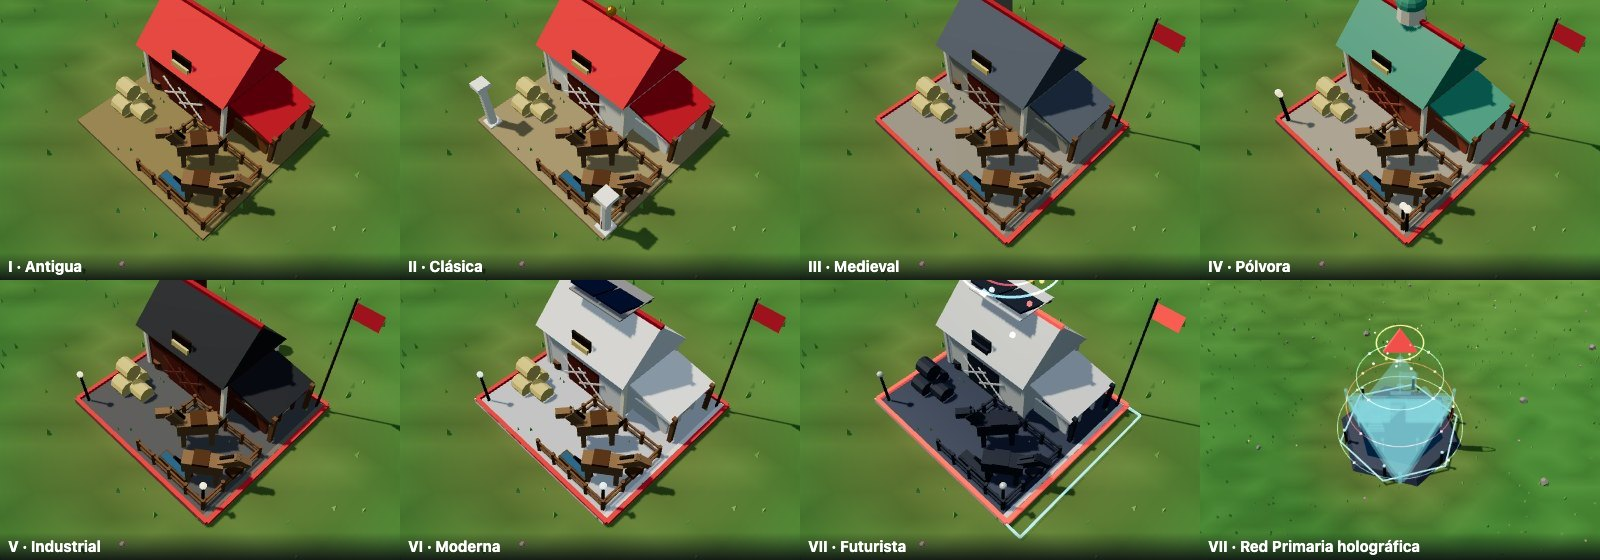
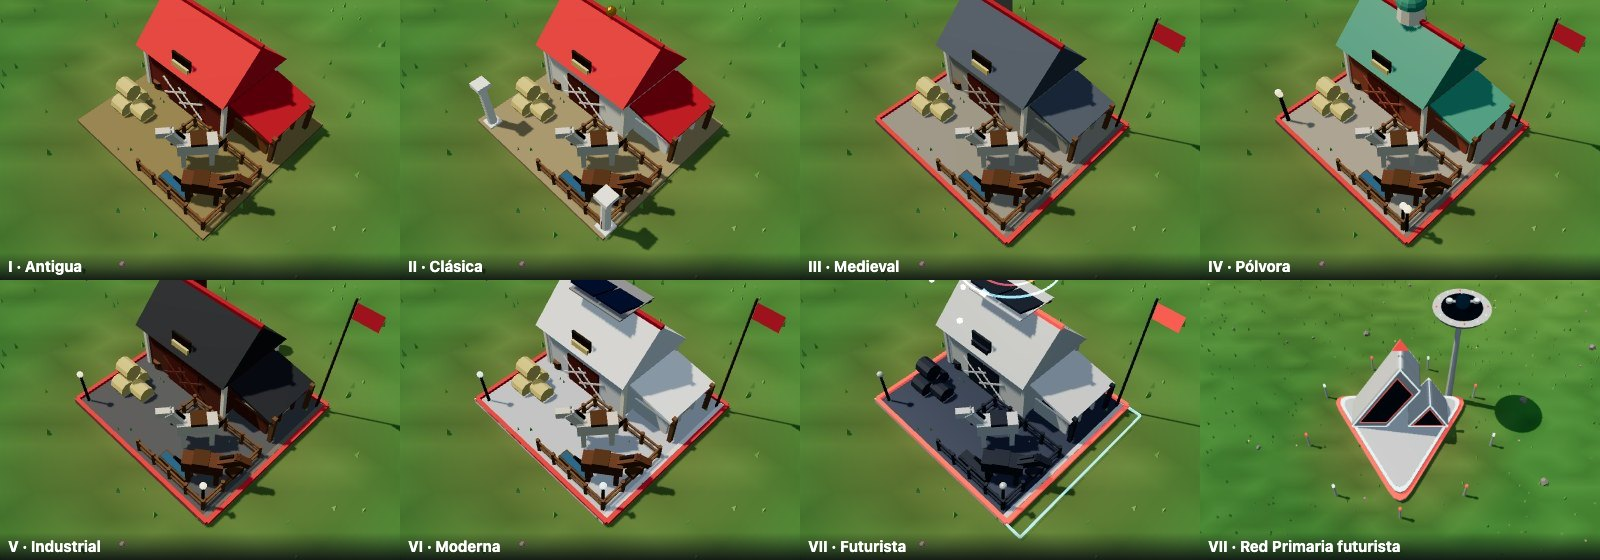
Gran Bazar y Red Primaria estilo Oblivion

diff --git a/README.md b/README.md
@@ -92,7 +92,7 @@ Como en AoE, **cada era cambia el aspecto de los edificios** y desbloquea unidad
 
 Como en AoE, cada era cambia el aspecto de los edificios. Los techos y los muros cambian de material y aparece un elemento icónico de la época. Desde la era III, el color del equipo pasa de los techos a un borde alrededor del edificio y a un estandarte. Al subir de era, el juego anuncia lo que se desbloqueó.
 
-<img src="docs/img/eras.jpg" width="820" alt="El mismo establo en las siete eras y la Red Primaria holográfica">
+<img src="docs/img/eras.jpg" width="820" alt="El mismo establo en las siete eras y la Red Primaria futurista">
 
 | Era | Muros | Techos | Elemento icónico |
 |---|---|---|---|
@@ -102,11 +102,11 @@ Como en AoE, cada era cambia el aspecto de los edificios. Los techos y los muros
 | IV · Pólvora | ladrillo rojo | cobre verde | cúpula de cobre y faroles |
 | V · Industrial | ladrillo oscuro | zinc | chimenea industrial con humo |
 | VI · Moderna | concreto claro | blanco | paneles solares y antena con luz roja |
-| VII · Futurista | cerámica blanca y grafito sobre losas de pizarra | vidrio oscuro | aristas de neón, franja de luz al ras del suelo y un anillo holográfico que gira encima; la Red Primaria es un **holograma** |
+| VII · Futurista | cerámica blanca y grafito sobre losas de pizarra | vidrio oscuro | aristas de neón, franja de luz al ras del suelo y un anillo holográfico que gira encima; la Red Primaria es una estructura blanca estilo *Oblivion*, más grande que las demás, con vidrio negro y LED en las aristas del logo |
 
 ### VII · Edad Futurista
 
-La era más futurista posible: la **Red Primaria se vuelve un holograma** (la silueta de Avalanche hecha de luz, sobre una plataforma con anillos que giran y el triángulo rojo flotando encima). Todos los edificios se rehacen en cerámica blanca, grafito y vidrio oscuro, con aristas de neón y un anillo holográfico. Llegan los **robots de combate**, los **helicópteros de ataque**, que vuelan sobre agua, bosques y murallas, y los **tanques de plasma**, que levitan. Todos disparan **láser**: cian los tuyos y magenta los del rival.
+La era más futurista posible: la **Red Primaria** se vuelve una estructura blanca estilo *Oblivion*, más grande que las demás, con paneles de vidrio negro, luces LED en todas las aristas del logo, postes de luz y una torre esbelta con helipuerto. Todos los edificios se rehacen en cerámica blanca, grafito y vidrio oscuro, con aristas de neón y un anillo holográfico. Llegan los **robots de combate**, los **helicópteros de ataque**, que vuelan sobre agua, bosques y murallas, y los **tanques de plasma**, que levitan. Todos disparan **láser**: cian los tuyos y magenta los del rival.
 
 <p align="center"><img src="docs/img/era7-base.jpg" width="49%"> <img src="docs/img/era7-batalla.jpg" width="49%"><br><sub>Una base en la Edad Futurista y una batalla de robots, tanques de plasma y helicópteros.</sub></p>
 
@@ -171,7 +171,7 @@ Las partículas se dibujan en tres mallas instanciadas (un draw call cada una) y
 | <img src="docs/img/lumbercamp-e1.jpg" width="210"> | **Aserradero Firewood**<br><sub>Aserradero</sub> | I | 100 🪵 | Punto de entrega de madera. Investiga mejoras de tala. Se reconoce por su techo de tablones y la pila de troncos. |
 | <img src="docs/img/miningcamp-e1.jpg" width="210"> | **Mina de AVAX**<br><sub>Campamento minero</sub> | I | 100 🪵 | Punto de entrega de oro y piedra. Investiga mejoras de minería. Se reconoce por el montículo de roca con túnel y la torre con polea. |
 | <img src="docs/img/farm-e1.jpg" width="210"> | **Granja de Staking**<br><sub>Granja</sub> | I | 60 🪵 | Fuente renovable de comida. Un aldeano la trabaja. Al agotarse se vuelve a sembrar sola por 60 🪵 (si no hay madera, desaparece). |
-| <img src="docs/img/market-e1.jpg" width="210"> | **Mercado DeFi**<br><sub>Mercado</sub> | I | 175 🪵 | Compra y vende recursos con tokens reales en la Age L1: cada recurso tiene su pool contra GLORY. |
+| <img src="docs/img/market-e1.jpg" width="210"> | **Mercado DeFi**<br><sub>Mercado</sub> | I | 175 🪵 | Compra y vende recursos con tokens reales en la Age L1: cada recurso tiene su pool contra GLORY. Entrena carretas comerciantes. |
 | <img src="docs/img/dock-e1.jpg" width="210"> | **Puerto Teleporter**<br><sub>Muelle</sub> | I | 150 🪵 | Se construye en la orilla, sobre el agua. Entrena los cuatro barcos y recibe el pescado. |
 | <img src="docs/img/barracks-e1.jpg" width="210"> | **Cuartel del Consenso**<br><sub>Cuartel</sub> | I | 100 🪵 · 40 🪨 | Entrena infantería: milicia, mosqueteros y fusileros. Se reconoce por su techo de pabellón, la torre de guardia y el patio de arena. |
 | <img src="docs/img/palisade-e1.jpg" width="210"> | **Empalizada de Hielo**<br><sub>Empalizada</sub> | I | 3 🪵 | Muro barato de troncos. Arrastra para trazar una línea. |
@@ -215,8 +215,15 @@ Las partículas se dibujan en tres mallas instanciadas (un draw call cada una) y
 | <img src="docs/img/hovertank-e7.jpg" width="190"> | **Tanque de Plasma Etna**<br><sub>Tanque de plasma</sub> | VII | 120 🪵 · 320 🪙 · 80 🪨 | 620 · 70 · 6.3 casillas | Levita sobre propulsores de luz. Su cañón de plasma hace 2,5× de daño a edificios. Se entrena en la Fábrica. |
 | <img src="docs/img/fishingboat-e1.jpg" width="190"> | **Pesquero Coreth**<br><sub>Bote pesquero</sub> | I | 75 🪵 | 60 · — · — | Pesca en mares, lagos y ríos y lleva la comida al muelle (carga 15). |
 | <img src="docs/img/transport-e1.jpg" width="190"> | **Transbordador ICM**<br><sub>Barco de transporte</sub> | I | 125 🪵 | 160 · — · — | Lleva hasta 5 unidades por el agua, por ejemplo de una isla a otra. |
+| <img src="docs/img/tradecart-e2.jpg" width="190"> | **Caravana DeFi**<br><sub>Carreta comerciante</sub> | II | 100 🍖 · 50 🪙 | 70 · — · — | Se entrena en el Mercado. Va y vuelve entre tu Mercado y el Gran Bazar del centro: cada llegada da oro según la distancia. No pelea. |
 | <img src="docs/img/merchant-e2.jpg" width="190"> | **Carguero Interchain**<br><sub>Barco mercante</sub> | II | 100 🪵 · 50 🪙 | 120 · — · — | Comercia entre dos muelles tuyos: cada viaje da oro según la distancia. |
 | <img src="docs/img/warship-e2.jpg" width="190"> | **Galera Avalanche**<br><sub>Galera de ataque</sub> | II | 140 🪵 · 50 🪙 | 200 · 9 · 4.8 casillas | Barco de guerra con arqueros: ataca barcos, costas y edificios. |
+
+### Gran Bazar
+
+En el centro de cada mapa hay una plaza de comercio **neutral**: no es de nadie, no se construye ni se puede destruir. Manda **carretas comerciantes** desde tu Mercado (clic derecho en el bazar, o *Comerciar*): cada viaje da oro según la distancia. Como el viaje tarda en proporción a la distancia, el oro por minuto es el mismo para los dos jugadores aunque el bazar no quede exactamente al centro. El mapa ahora termina en una cornisa de piedra clara, sin bosque decorativo afuera.
+
+<p align="center"><img src="docs/img/bazar.jpg" width="80%"><br><sub>El Gran Bazar: fuente, obelisco con el triángulo de Avalanche y puestos con los colores de los chapters.</sub></p>
 
 ### Agua y barcos
 

diff --git a/docs/JUEGO.md b/docs/JUEGO.md
@@ -84,7 +84,7 @@ Como en AoE, cada avance de era cambia el aspecto de los edificios. Al subir de 
 | IV · Pólvora | ladrillo rojo | cobre verde | cúpula de cobre con linterna y faroles |
 | V · Industrial | ladrillo oscuro | zinc | chimenea industrial de ladrillo con humo |
 | VI · Moderna | concreto claro | blanco | paneles solares sobre el techo y antena con luz roja |
-| VII · Futurista | cerámica blanca, grafito y pizarra | vidrio oscuro | aristas de neón, franja de luz y anillo holográfico; la Red Primaria es un holograma (`makeHoloTown`) |
+| VII · Futurista | cerámica blanca, grafito y pizarra | vidrio oscuro | aristas de neón, franja de luz y anillo holográfico; la Red Primaria estilo Oblivion (`makeFutureTown`) |
 
 Desde la era III, el color del equipo deja los techos y pasa a un borde alrededor del edificio y a un estandarte, como en AoE. La comparación está en `docs/img/eras.jpg` (`?photo=stable&era=N&zoom=7.5`).
 
@@ -140,7 +140,7 @@ Cuando una granja se agota, se vuelve a sembrar sola cobrando su costo, **60 de 
 - **Avance:** 2000 comida, 1600 oro y 800 piedra en la Red Primaria, desde la Edad Moderna. La IA llega a los 24 minutos.
 - **Unidades:** robot de combate (Cuartel), helicóptero de ataque y tanque de plasma (Fábrica). Disparan láser (`ranged: 'laser'`): un haz instantáneo cian (tuyo) o magenta (rival) con destellos; el del tanque es más grueso y enciende el blanco.
 - **Aeronaves** (`air: true`): vuelan en línea recta sobre agua, bosques y murallas, sin pathfinding. Solo se separan entre ellas, no empujan a la infantería de abajo. Cualquiera las puede atacar.
-- **Aspecto** (`src/render/models.ts`): los edificios parten del modelo de la Edad Moderna y `futurize` los rehace (cerámica, grafito, pisos de pizarra, aristas de neón con `EdgesGeometry`, franja de luz y anillo holográfico). El centro urbano es `makeHoloTown`: la Red Primaria convertida en holograma translúcido con aristas brillantes, anillos que giran y el triángulo de Avalanche flotando. Las personas llevan casco con visor cian y peto blanco.
+- **Aspecto** (`src/render/models.ts`): los edificios parten del modelo de la Edad Moderna y `futurize` los rehace (cerámica, grafito, pisos de pizarra, aristas de neón con `EdgesGeometry`, franja de luz y anillo holográfico). El centro urbano es `makeFutureTown`: estructura blanca estilo *Oblivion*, más grande, con vidrio negro en las caras del logo, LED en todas sus aristas, postes de luz y torre con helipuerto. Las personas llevan casco con visor cian y peto blanco.
 
 ## Murallas y puertas
 
